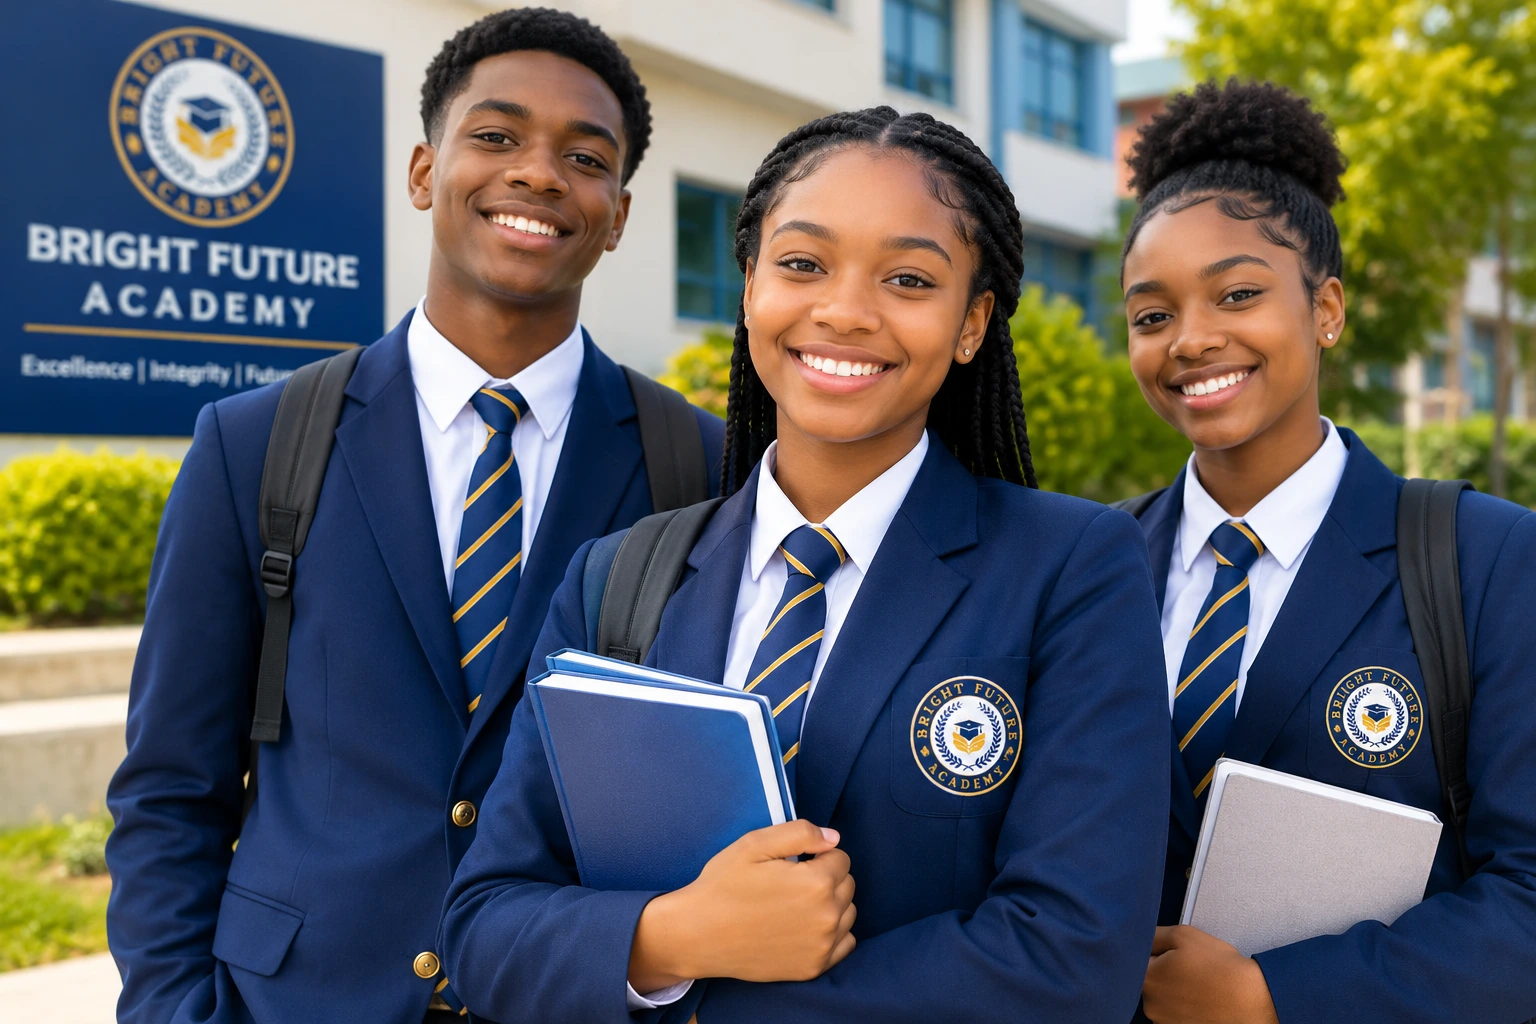
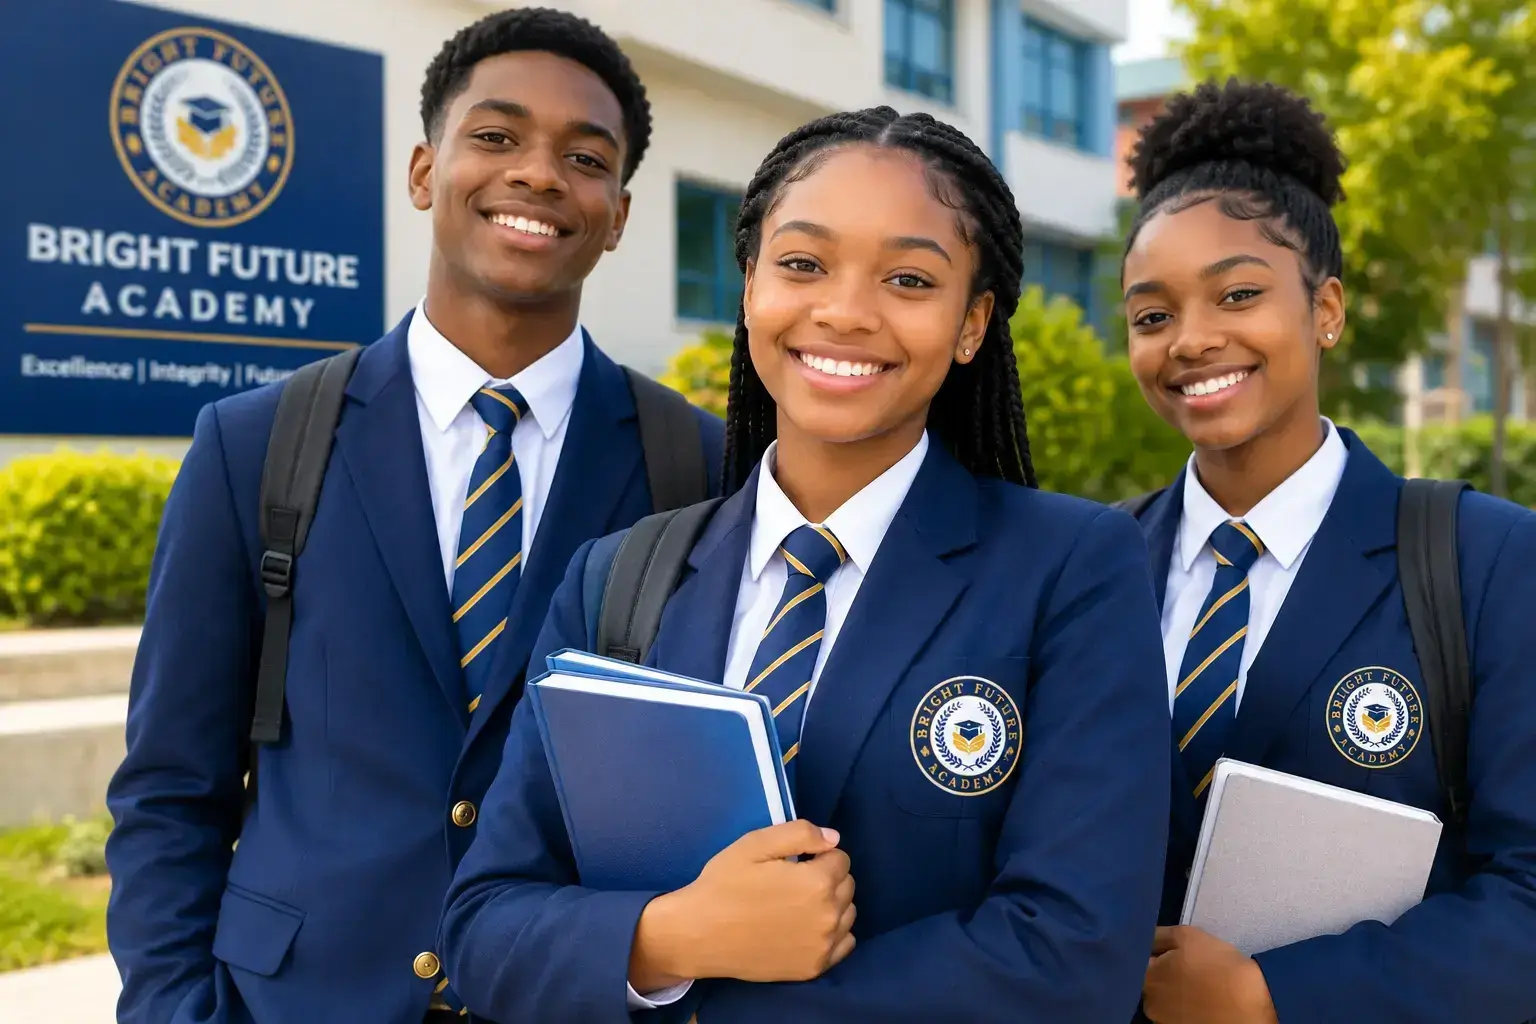
compressed hero image

diff --git a/index.html b/index.html
@@ -46,7 +46,7 @@
          CSS Files
     =========================================== -->
     <link rel="stylesheet" href="./css/style.css">
-    <!-- <link rel="stylesheet" href="css/animations.css"> -->
+    <link rel="stylesheet" href="./css/animation.css">
     <link rel="stylesheet" href="./css/responsive.css">
 
 </head>
@@ -494,6 +494,87 @@
     </section>
 
 
+    <!-- ====== Testimonials ====== -->
+    <section class="testimonials" id="testimonials">
+        <div class="container">
+            <div class="section-title">
+                <span class="subtitle">Testimonials</span>
+                <h2>What Parents Say About Us</h2>
+                <p>
+                    Hear from parents who have entrusted BrightFuture Academy
+                    with their children's education.
+                </p>
+                <div class="title-line"></div>
+            </div>
+            <div class="testimonial-slider">
+                <button class="slider-btn prev" aria-label="Previous Testimonial">
+                    <i class="fa-solid fa-chevron-left"></i>
+                </button>
+                <div class="testimonial-wrapper">
+                    <!-- Testimonial 1 -->
+                    <article class="testimonial active">
+                        <div class="stars">
+                            <i class="fa-solid fa-star"></i>
+                            <i class="fa-solid fa-star"></i>
+                            <i class="fa-solid fa-star"></i>
+                            <i class="fa-solid fa-star"></i>
+                            <i class="fa-solid fa-star"></i>
+                        </div>
+                        <div class="quote-icon">
+                            <i class="fa-solid fa-quote-left"></i>
+                        </div>
+                        <p class="testimonial-text">
+                            BrightFuture Academy has transformed my child's
+                            confidence and academic performance. The teachers are
+                            supportive, caring and always encourage excellence.
+                        </p>
+                        <div class="testimonial-author">
+                            <img src="images/parent1.webp"
+                                alt="Parent">
+                            <div>
+                                <h4>Mrs. Sarah Johnson</h4>
+                                <span>Parent of Primary 5 Student</span>
+                            </div>
+                        </div>
+                    </article>
+
+                    <!-- Testimonial 2 -->
+                    <article class="testimonial">
+                        <div class="stars">
+                            <i class="fa-solid fa-star"></i>
+                            <i class="fa-solid fa-star"></i>
+                            <i class="fa-solid fa-star"></i>
+                            <i class="fa-solid fa-star"></i>
+                            <i class="fa-solid fa-star"></i>
+                        </div>
+                        <div class="quote-icon">
+                            <i class="fa-solid fa-quote-left"></i>
+                        </div>
+                        <p class="testimonial-text">
+                            We have seen remarkable improvement in our son's
+                            discipline and love for learning. Choosing
+                            BrightFuture Academy was the best decision.
+                        </p>
+                        <div class="testimonial-author">
+                            <img src="images/parent2.webp"
+                                alt="Parent">
+                            <div>
+                                <h4>Mr. David Wilson</h4>
+                                <span>Parent of JSS 2 Student</span>
+                            </div>
+                        </div>
+                    </article>
+                </div>
+                <button class="slider-btn next" aria-label="Next Testimonial">
+                    <i class="fa-solid fa-chevron-right"></i>
+                </button>
+            </div>
+            <div class="testimonial-dots">
+                <span class="dot active"></span>
+                <span class="dot"></span>
+            </div>
+        </div>
+    </section>
     <!-- ====== Footer Section ====== -->
     <footer>
         <div class="container">

diff --git a/css/style.css b/css/style.css
@@ -1017,3 +1017,126 @@ p{
     color:var(--text-secondary);
     line-height:1.8;
 }
+
+/* ======== TESTIMONIALS ========== */
+
+.testimonials{
+    padding:var(--section-padding);
+    background:var(--bg-color);
+}
+
+.testimonial-slider{
+    position:relative;
+    display:flex;
+    align-items:center;
+    justify-content:center;
+}
+
+.testimonial-wrapper{
+    width:100%;
+    max-width:800px;
+}
+
+.testimonial{
+    position:relative;
+    display:none;
+    background:var(--surface-color);
+    border-radius:var(--image-radius);
+    box-shadow:var(--shadow);
+    padding:2.5rem 1.5rem;
+    text-align:center;
+}
+.testimonial::before{
+    content:"";
+
+    position:absolute;
+    top:0;
+    left:50%;
+
+    transform:translateX(-50%);
+
+    width:80px;
+    height:5px;
+
+    background:var(--color-secondary);
+    border-radius:0 0 999px 999px;
+}
+.testimonial.active{
+    display:block;
+    animation:fade .5s ease;
+}
+
+.stars{
+    margin-bottom:1rem;
+}
+
+.stars i{
+    color:var(--color-secondary);
+    margin:0 .15rem;
+}
+
+.quote-icon{
+    font-size:2.5rem;
+    color:var(--color-primary);
+    margin-bottom:1rem;
+}
+
+.testimonial-text{
+    color:var(--text-secondary);
+    line-height:1.9;
+    max-width:600px;
+    margin:0 auto 2rem;
+}
+
+.testimonial-author{
+    display:flex;
+    flex-direction:column;
+    align-items:center;
+    gap:1rem;
+}
+
+.testimonial-author img{
+    width:80px;
+    height:80px;
+    border-radius:50%;
+    object-fit:cover;
+    border:4px solid var(--color-secondary);
+}
+
+.testimonial-author h4{
+    color:var(--text-primary);
+    margin-bottom:.3rem;
+}
+
+.testimonial-author span{
+    color:var(--text-secondary);
+    font-size:var(--fs-small);
+}
+
+.slider-btn{
+    display:none;
+}
+
+.testimonial-dots{
+    margin-top:2rem;
+
+    display:flex;
+    justify-content:center;
+    gap:.75rem;
+}
+
+.dot{
+    width:12px;
+    height:12px;
+
+    border-radius:50%;
+
+    background:var(--border-color);
+
+    cursor:pointer;
+    transition:var(--transition);
+}
+
+.dot.active{
+    background:var(--color-primary);
+}

diff --git a/css/responsive.css b/css/responsive.css
@@ -158,6 +158,18 @@
         padding:2.5rem 2rem;
     }
 
+
+    /* ====== ADMISSIONS ====== */
+    .testimonial{
+        padding:3rem;
+    }
+
+    .testimonial-author{
+        flex-direction:row;
+        justify-content:center;
+        text-align:left;
+    }
+
 }
 
 /* ==========================================
@@ -313,6 +325,37 @@
         grid-template-columns:repeat(2,1fr);
     }
 
+
+    /* ====== ADMISSIONS ====== */
+
+    .testimonial-slider{
+        gap:2rem;
+    }
+
+    .slider-btn{
+        display:flex;
+        align-items:center;
+        justify-content:center;
+
+        width:55px;
+        height:55px;
+
+        border:none;
+        border-radius:50%;
+
+        background:var(--color-primary);
+        color:var(--text-light);
+
+        cursor:pointer;
+
+        transition:var(--transition);
+    }
+
+    .slider-btn:hover{
+        background:var(--color-secondary);
+        color:var(--color-primary);
+    }
+
 }
 
 
@@ -409,5 +452,11 @@
         max-width: none;
         margin-inline:none;
         grid-template-columns:repeat(4,1fr);
+    }
+
+
+    /* ====== ADMISSIONS ====== */
+    .testimonial{
+        padding:4rem;
     }
 }

diff --git a/css/animation.css b/css/animation.css
@@ -1,0 +1,14 @@
+/* testimonial animation */
+@keyframes fade{
+
+    from{
+        opacity:0;
+        transform:translateY(15px);
+    }
+
+    to{
+        opacity:1;
+        transform:translateY(0);
+    }
+
+}
